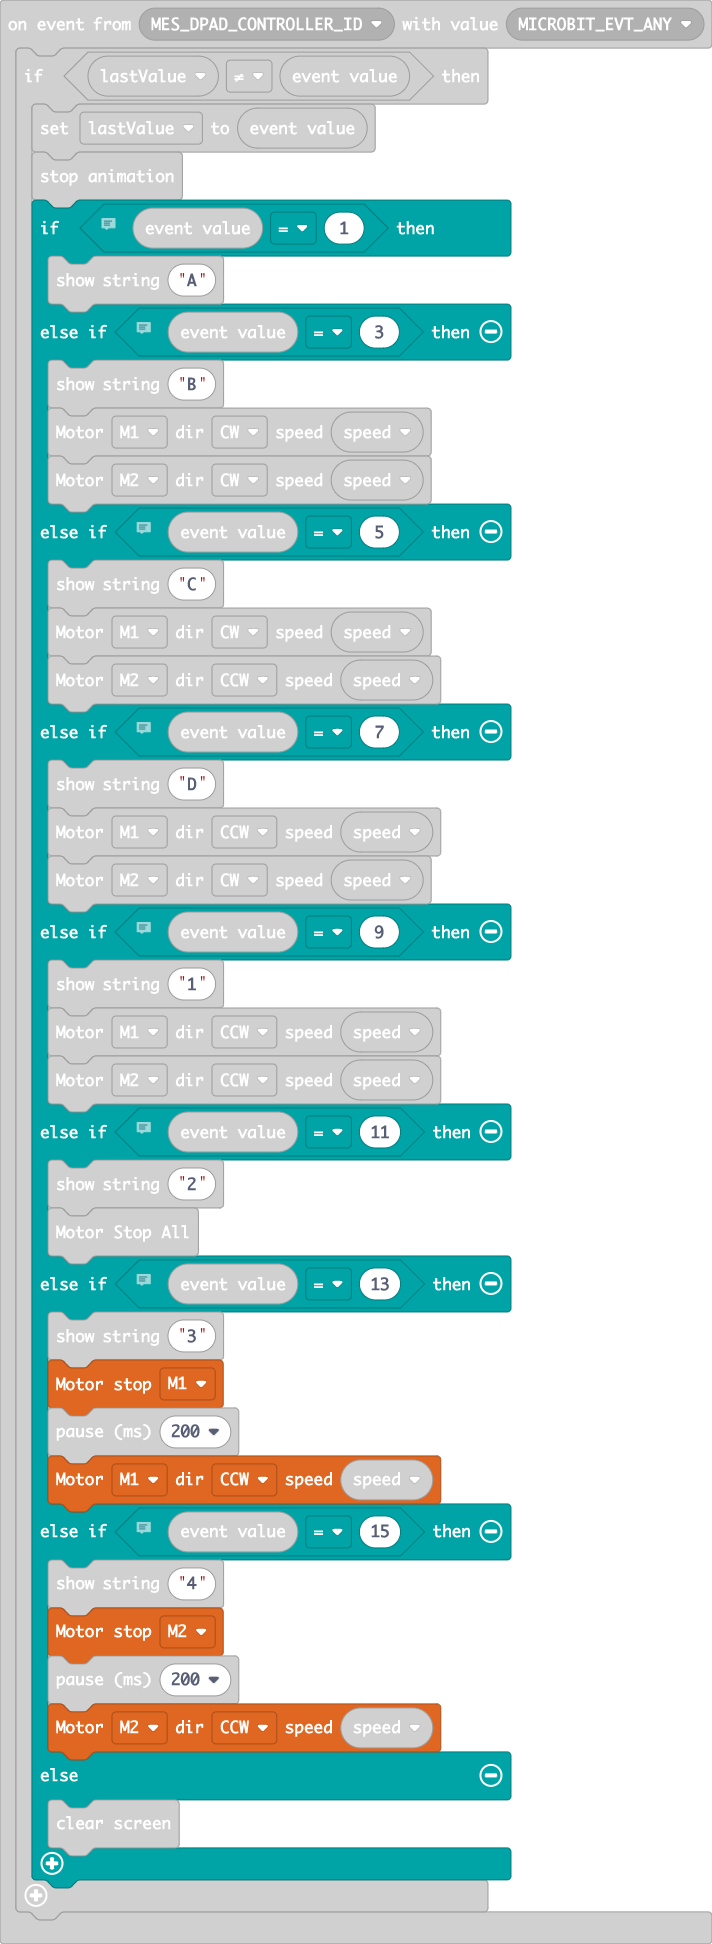
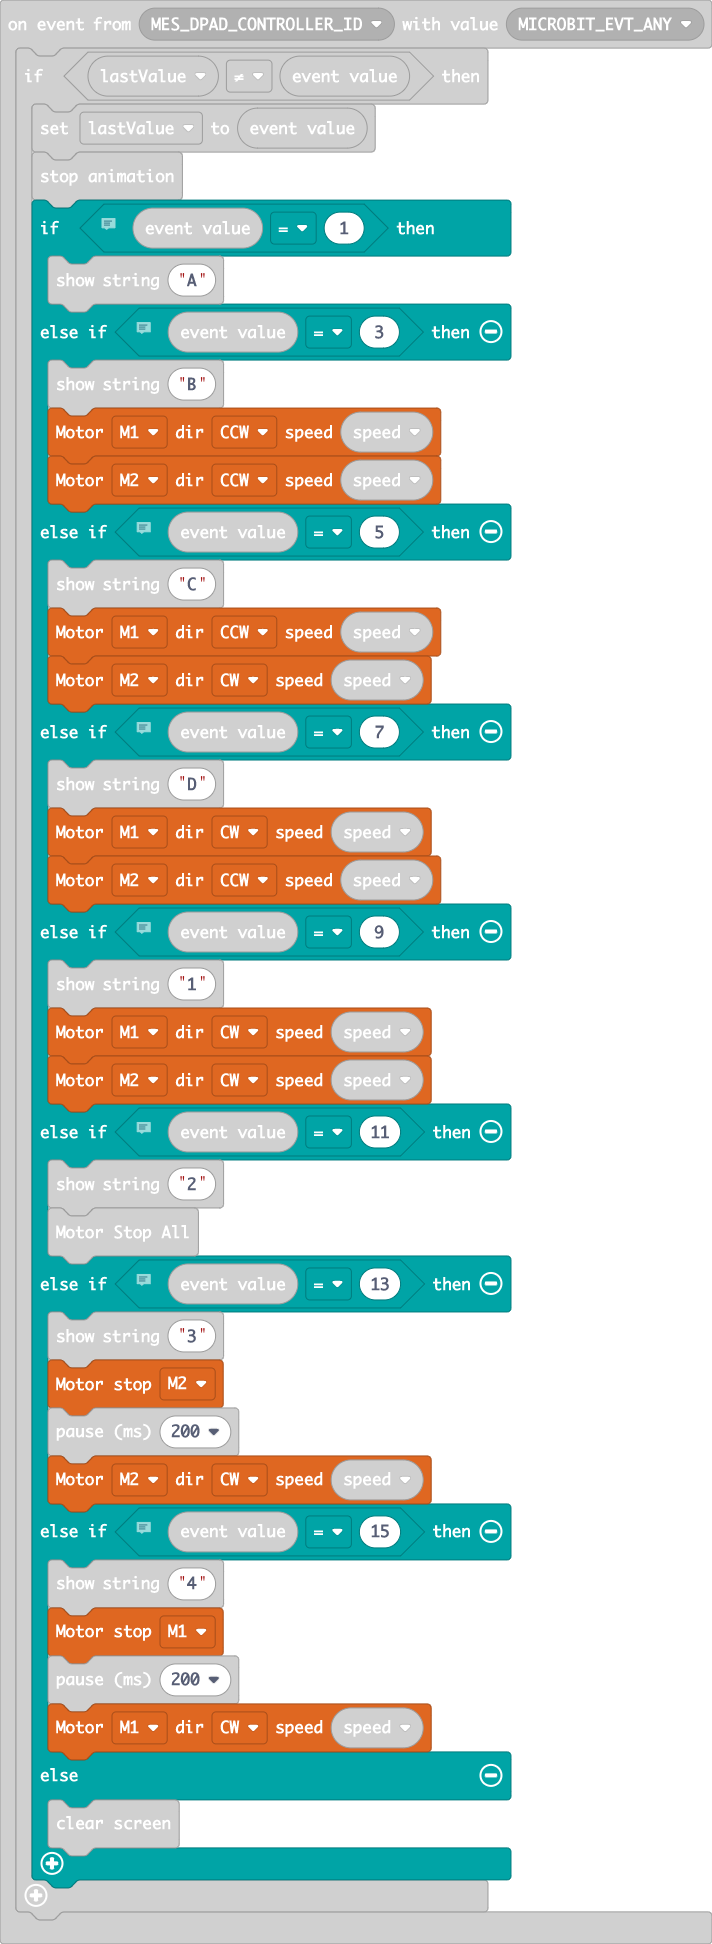
Update main.blocks, main.ts

diff --git a/main.ts b/main.ts
@@ -14,33 +14,33 @@ control.onEvent(EventBusSource.MES_DPAD_CONTROLLER_ID, EventBusValue.MICROBIT_EV
             basic.showString("A")
         } else if (control.eventValue() == 3) {
             basic.showString("B")
-            motor.MotorRun(motor.Motors.M1, motor.Dir.CW, speed)
-            motor.MotorRun(motor.Motors.M2, motor.Dir.CW, speed)
+            motor.MotorRun(motor.Motors.M1, motor.Dir.CCW, speed)
+            motor.MotorRun(motor.Motors.M2, motor.Dir.CCW, speed)
         } else if (control.eventValue() == 5) {
             basic.showString("C")
-            motor.MotorRun(motor.Motors.M1, motor.Dir.CW, speed)
-            motor.MotorRun(motor.Motors.M2, motor.Dir.CCW, speed)
-        } else if (control.eventValue() == 7) {
-            basic.showString("D")
             motor.MotorRun(motor.Motors.M1, motor.Dir.CCW, speed)
             motor.MotorRun(motor.Motors.M2, motor.Dir.CW, speed)
+        } else if (control.eventValue() == 7) {
+            basic.showString("D")
+            motor.MotorRun(motor.Motors.M1, motor.Dir.CW, speed)
+            motor.MotorRun(motor.Motors.M2, motor.Dir.CCW, speed)
         } else if (control.eventValue() == 9) {
             basic.showString("1")
-            motor.MotorRun(motor.Motors.M1, motor.Dir.CCW, speed)
-            motor.MotorRun(motor.Motors.M2, motor.Dir.CCW, speed)
+            motor.MotorRun(motor.Motors.M1, motor.Dir.CW, speed)
+            motor.MotorRun(motor.Motors.M2, motor.Dir.CW, speed)
         } else if (control.eventValue() == 11) {
             basic.showString("2")
             motor.motorStopAll()
         } else if (control.eventValue() == 13) {
             basic.showString("3")
-            motor.motorStop(motor.Motors.M1)
-            basic.pause(200)
-            motor.MotorRun(motor.Motors.M1, motor.Dir.CCW, speed)
-        } else if (control.eventValue() == 15) {
-            basic.showString("4")
             motor.motorStop(motor.Motors.M2)
             basic.pause(200)
-            motor.MotorRun(motor.Motors.M2, motor.Dir.CCW, speed)
+            motor.MotorRun(motor.Motors.M2, motor.Dir.CW, speed)
+        } else if (control.eventValue() == 15) {
+            basic.showString("4")
+            motor.motorStop(motor.Motors.M1)
+            basic.pause(200)
+            motor.MotorRun(motor.Motors.M1, motor.Dir.CW, speed)
         } else {
             basic.clearScreen()
         }
